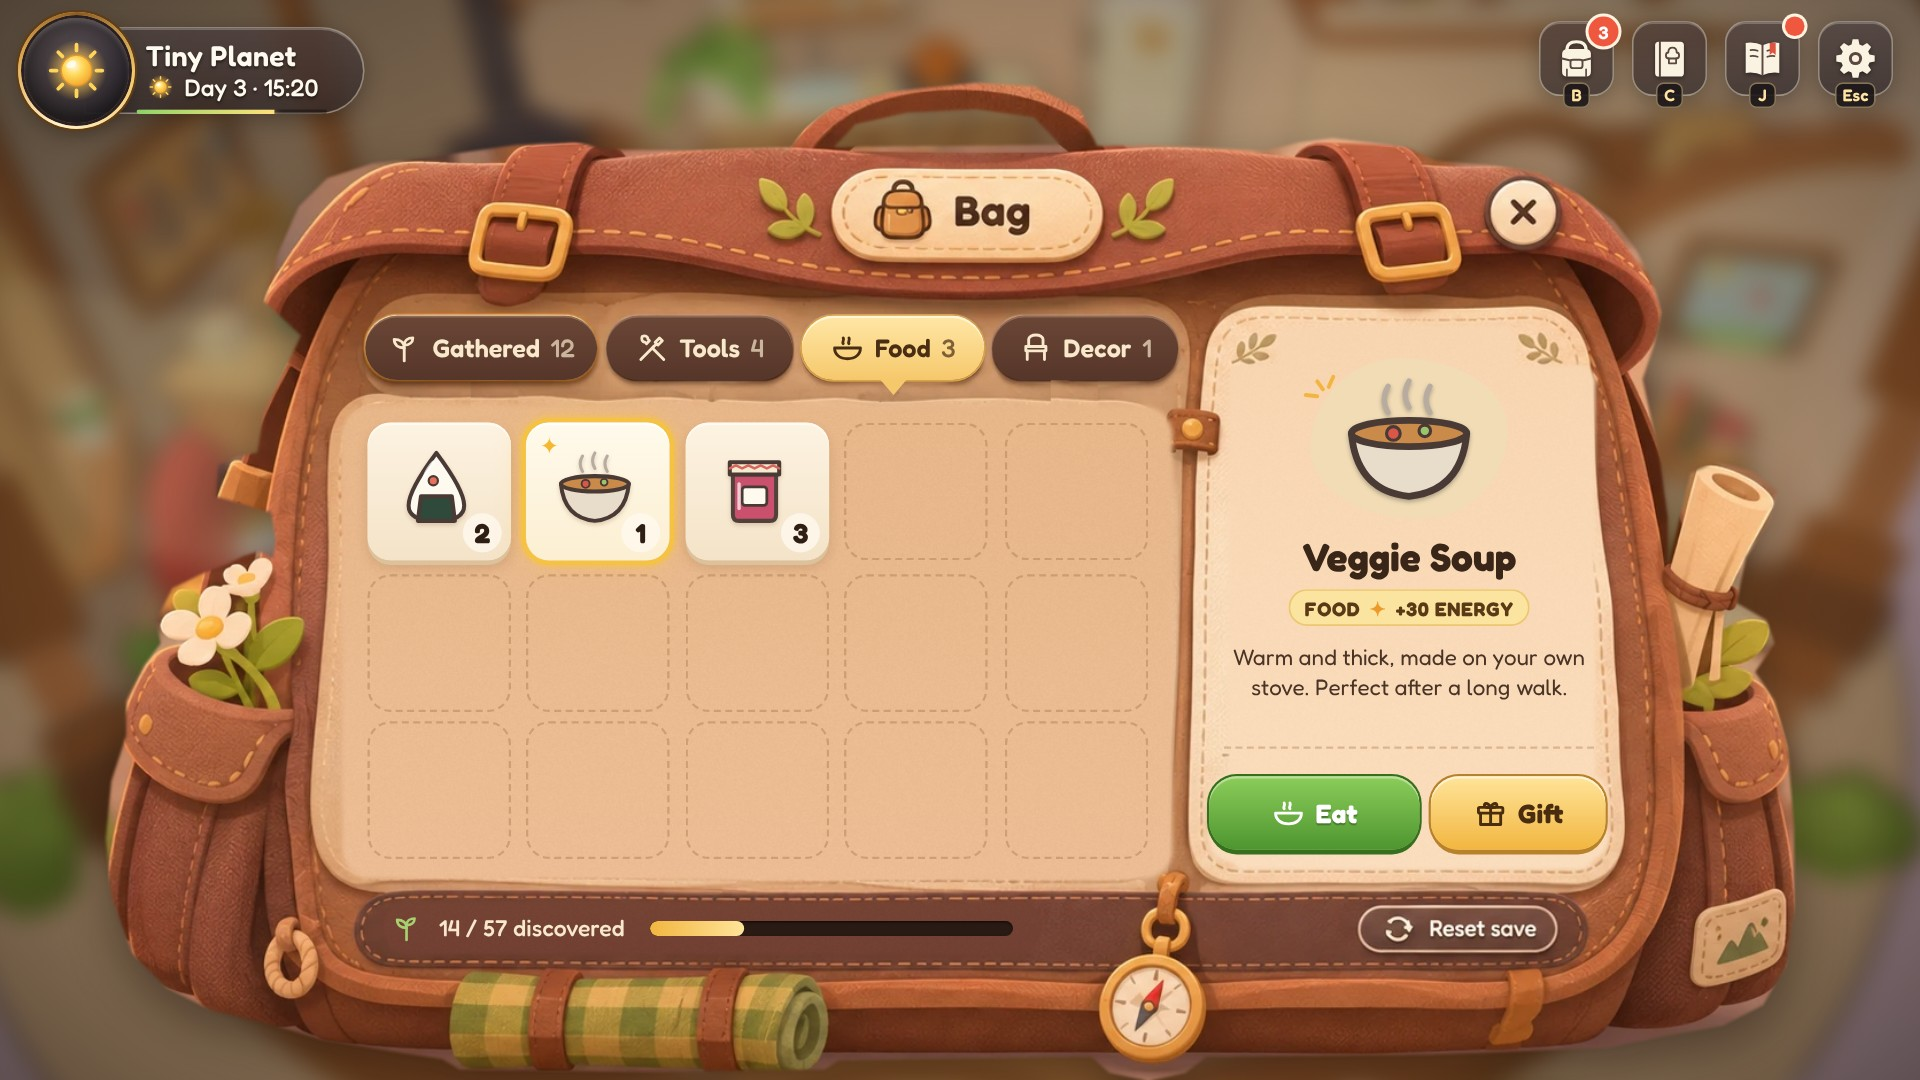
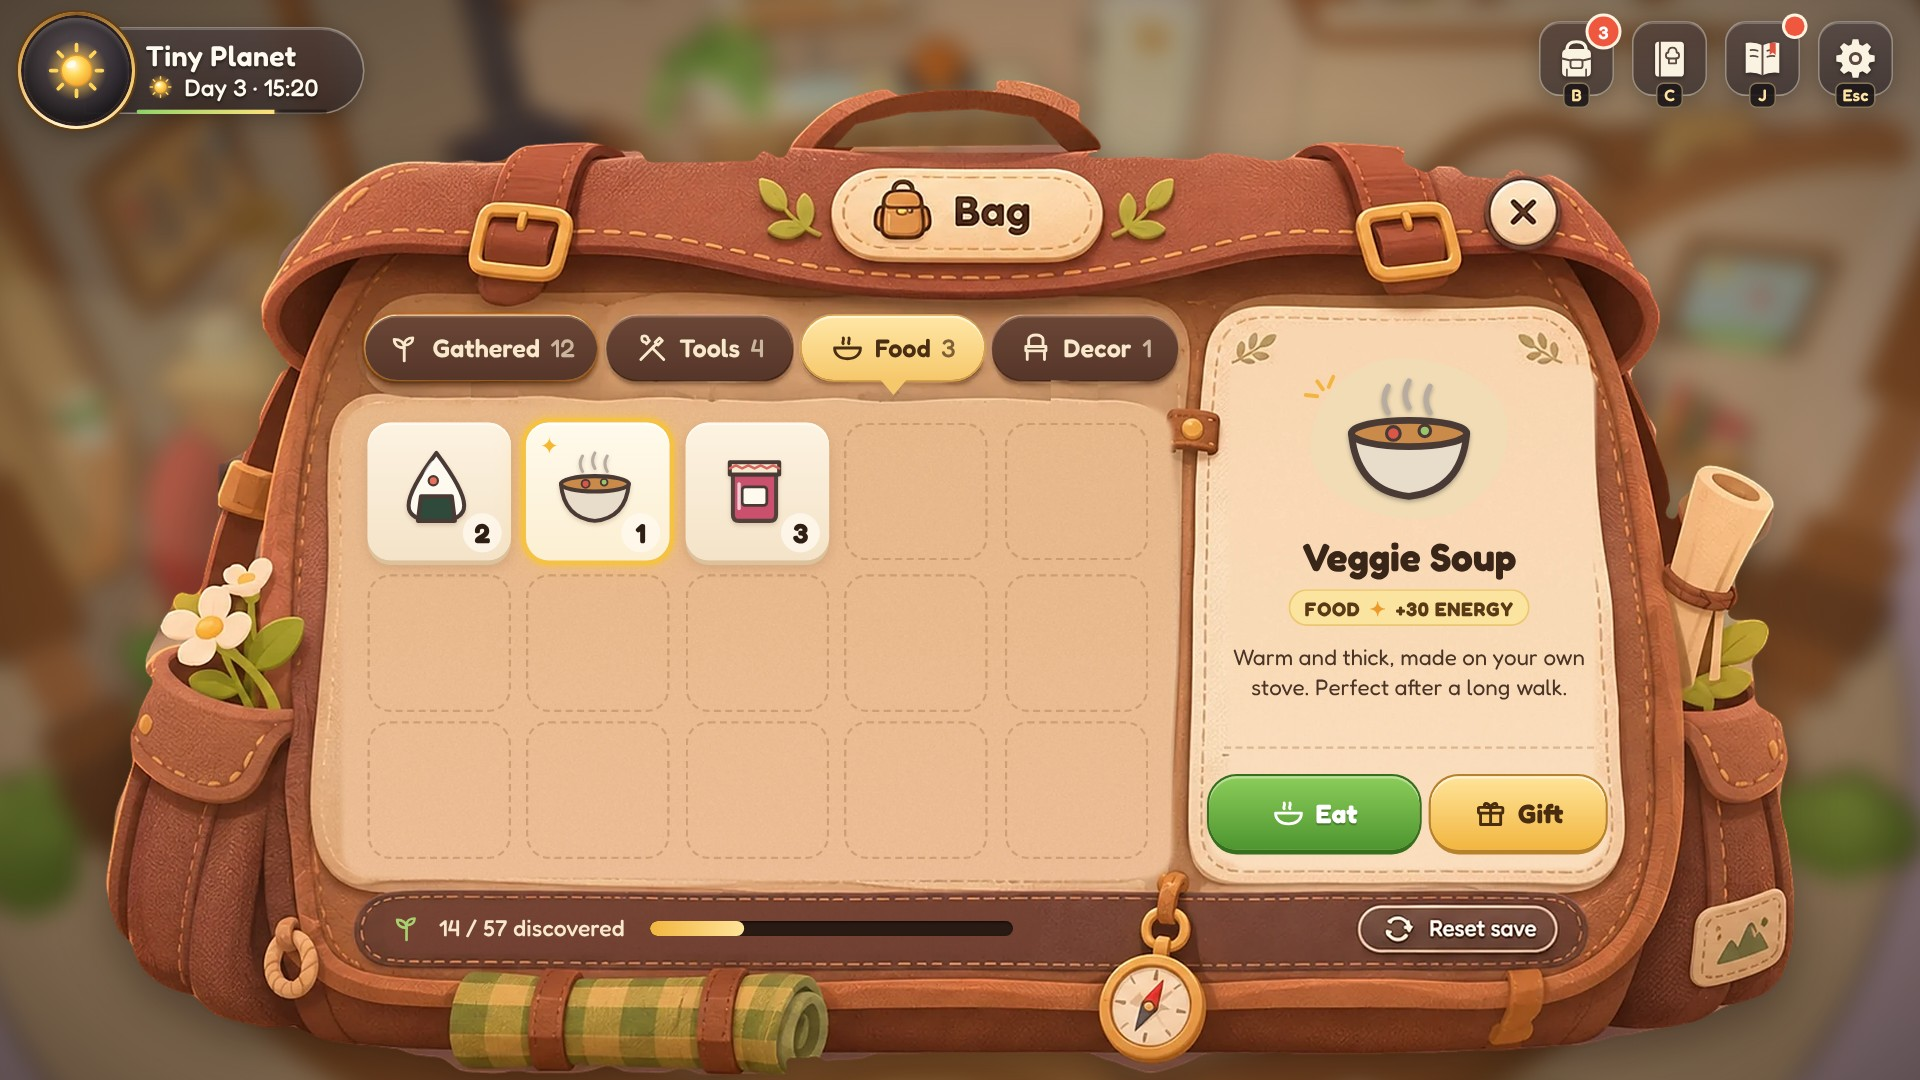
Bag mock: refined cut-out, 2x art, WebP (135 KB / 454 KB), hotspots, discoveries panel
Claude-Session: https://claude.ai/code/session_01CNaBwLKpSJahPyEzLh7zFH

diff --git a/ui-mocks/a/bag3.html b/ui-mocks/a/bag3.html
@@ -39,12 +39,30 @@ html,body{margin:0;width:1280px;height:720px;overflow:hidden;background:#3a2a20}
 .bt svg{width:30px;height:30px}
 .bt.g{flex:1.2;color:#fff;text-shadow:0 1px 1px rgba(0,0,0,.3);background:linear-gradient(180deg,#8ccd5a,#4e9530);box-shadow:0 0 0 2px #36701e,0 4px 0 #36701e,inset 0 2px 0 rgba(255,255,255,.4)}
 .bt.y{color:#4a2c0e;background:linear-gradient(180deg,#ffe49a,#f2b640);box-shadow:0 0 0 2px #b8822c,0 4px 0 #b8822c,inset 0 2px 0 rgba(255,255,255,.6)}
-.foot{position:absolute;left:340px;top:786px;height:44px;display:flex;align-items:center;gap:14px;font-size:20px;font-weight:500;color:#f8e8cc}
+.foot{position:absolute;left:326px;top:784px;height:48px;padding:0 16px 0 14px;border:0;border-radius:24px;background:none;font-family:inherit;cursor:pointer;display:flex;align-items:center;gap:14px;font-size:20px;font-weight:500;color:#f8e8cc;transition:background .15s,box-shadow .15s}
+.foot .more{font-size:16px;font-weight:600;color:#f6c86c;opacity:0;margin-left:6px;transition:opacity .15s}
+.foot:hover,.foot.on{background:rgba(255,220,150,.10);box-shadow:inset 0 0 0 2px rgba(246,200,108,.75),0 0 16px rgba(246,200,108,.35)}
+.foot:hover .more,.foot.on .more{opacity:1}
+.hot{position:absolute;border:0;background:none;cursor:pointer;border-radius:36px}
+.hot:hover{background:rgba(255,240,200,.12)}
+body.debug .hot,body.debug .foot{outline:3px dashed #39f;outline-offset:2px;background:rgba(51,153,255,.15)}
+.disc{position:absolute;left:300px;bottom:180px;width:440px;padding:20px 22px 18px;border-radius:22px;color:#3a2618;
+  background:linear-gradient(180deg,#fffaf0,#f4e6c8);box-shadow:0 0 0 2.5px #c49a62,0 14px 30px rgba(40,20,8,.45)}
+.disc::before{content:'';position:absolute;inset:8px;border-radius:15px;border:2px dashed rgba(170,125,80,.4);pointer-events:none}
+.disc::after{content:'';position:absolute;left:150px;bottom:-14px;border:14px solid transparent;border-bottom:0;border-top:15px solid #f4e6c8;filter:drop-shadow(0 2.5px 0 #c49a62)}
+.dh{display:flex;align-items:center;gap:10px;font-size:26px;margin-bottom:10px}.dh svg{width:30px;height:30px;color:#6a9a3a}.dh span{margin-left:auto;font-size:22px;font-weight:700;color:#b4712e}
+.dr{display:flex;align-items:center;gap:12px;font-size:19px;font-weight:600;padding:6px 0}
+.di{width:34px;height:34px;display:grid;place-items:center;color:#8a5a30}.di svg{width:28px;height:28px}.di .it{width:34px;height:34px}
+.dn{width:96px}.dm{flex:1;height:12px;border-radius:6px;background:#e6d2ac;box-shadow:inset 0 1px 2px rgba(90,50,20,.25);overflow:hidden}
+.dm i{display:block;height:100%;border-radius:6px;background:linear-gradient(90deg,#f2b640,#ffe49a)}.dc{width:56px;text-align:right;color:#7a5a3a}
+.dnext{display:flex;align-items:center;gap:10px;margin-top:10px;padding:10px 12px;border-radius:14px;background:#f1e0bd;font-size:16px;line-height:1.3}.dnext .it{width:40px;height:40px;flex:none;filter:brightness(.15) opacity(.55)}
+.dsoon{margin-top:10px;text-align:center;font-size:14px;color:#9a7a5a}
 .foot svg{width:28px;height:28px;color:#a8d070}
 .foot .m{width:316px;height:13px;border-radius:7px;background:#2a1a14;box-shadow:inset 0 1px 2px rgba(0,0,0,.6);overflow:hidden;margin-left:8px}
 .foot .m i{display:block;width:26%;height:100%;border-radius:7px;background:linear-gradient(90deg,#f2b640,#ffe49a)}
 </style></head>
-<body class="ui"><img id="bg" src="../bg-in.jpg"><div class="veil"></div><div id="root"></div>
+<body class="ui">
+<script>if (new URLSearchParams(location.search).get('debug')) document.body.classList.add('debug')</script><img id="bg" src="../bg-in.jpg"><div class="veil"></div><div id="root"></div>
 <script>
 const it = (id, w) => `<span class="it">${IC[id + (w ? '' : '_nw')]}</span>`
 const gl = (id) => `<span class="gl">${GL[id]}</span>`
@@ -56,7 +74,11 @@ const I = {
   hammer: `<svg viewBox="0 0 24 24" fill="none" stroke="currentColor" stroke-width="2.2" stroke-linecap="round" stroke-linejoin="round"><path d="M14 6l4 4"/><path d="M11 9l3-3 2-1 3 3-1 2-3 3z"/><path d="M12.5 10.5L4 19l1.5 1.5 8.5-8.5"/></svg>`,
   gift: `<svg viewBox="0 0 24 24" fill="none" stroke="currentColor" stroke-width="2" stroke-linecap="round" stroke-linejoin="round"><rect x="3.5" y="8" width="17" height="4" rx="1"/><path d="M5 12v8h14v-8M12 8v12"/><path d="M12 8C10 4 6.5 5 8 7.5c.6 1 4 .5 4 .5zM12 8c2-4 5.5-3 4-.5-.6 1-4 .5-4 .5z"/></svg>`,
 }
-const FOOD = new URLSearchParams(location.search).get('tab') === 'food'
+const Q = new URLSearchParams(location.search), FOOD = Q.get('tab') === 'food'
+const DISC = `<div class="disc"><div class="dh">${I.sprout}<b>Discoveries</b><span>14 / 57</span></div>
+  ${[['sprout', 'Gathered', 10, 24], ['fish', 'Fish', 1, 12], ['bowl', 'Food', 3, 10], ['chair', 'Decor', 0, 11]].map(([ic, n, a, b]) => `<div class="dr"><span class="di">${ic === 'fish' ? `<span class="it">${IC.fish_nw}</span>` : I[ic]}</span><span class="dn">${n}</span><span class="dm"><i style="width:${a / b * 100}%"></i></span><span class="dc">${a}/${b}</span></div>`).join('')}
+  <div class="dnext"><span class="it">${IC.glowmoss_nw}</span><span><b>Next to find:</b> something that glows in the forest at night…</span></div>
+  <div class="dsoon">The full discovery journal is coming soon</div></div>`
 const tabs = [['Gathered', 12, 'sprout', 318, 202, !FOOD], ['Tools', 4, 'tools', 528, 162], ['Food', 3, 'bowl', 698, 159, FOOD], ['Decor', 1, 'chair', 864, 162]]
 const COLS = [320, 458, 597, 735, 875], ROWS = [368, 500, 628]
 const items = FOOD ? [['onigiri', 2], ['soup', 1, 1], ['jam', 3], [null], [null], [null], [null], [null], [null], [null], [null], [null], [null], [null], [null]] : [['mushroom', 3], ['flower', 5, 1], ['berries', 12], ['wood', 24], ['stone', 4], ['shell', 2], ['herbs', 6], ['acorn', 3], ['fish', 1], ['crystal', 2], ['moss', 7], ['pinecone', 4], [null], [null], [null]]
@@ -66,7 +88,7 @@ document.getElementById('root').innerHTML = `
 <div class="abs" style="right:18px;top:14px;display:flex;gap:12px">
   <div class="glass sqbtn">${gl('bag')}<span class="dot n">3</span><span class="kc">B</span></div><div class="glass sqbtn">${gl('recipes')}<span class="kc">C</span></div>
   <div class="glass sqbtn">${gl('journal')}<span class="dot"></span><span class="kc">J</span></div><div class="glass sqbtn">${gl('gear')}<span class="kc">Esc</span></div></div>
-<div class="bag"><img src="ref/bag-frame.png">
+<div class="bag"><img src="ref/bag-frame.webp" srcset="ref/bag-frame.webp 1x, ref/bag-frame@2x.webp 2x" alt="">
   ${tabs.map(([n, c, ic, x, w, on]) => `<div class="tb${on ? ' on' : ''}" style="left:${x}px;width:${w}px">${I[ic]}${n} <i>${c}</i></div>`).join('')}
   ${items.map(([id, n, s], k) => { const x = COLS[k % 5], y = ROWS[(k / 5) | 0]
     return id ? `<div class="t${s ? ' sel' : ''}" style="left:${x}px;top:${y}px">${it(id)}<span class="n">${n}</span>${s ? '<span class="sp">✦</span>' : ''}</div>` : `<div class="t e" style="left:${x}px;top:${y}px"></div>` }).join('')}
@@ -76,6 +98,10 @@ document.getElementById('root').innerHTML = `
     <p>${FOOD ? 'Warm and thick, made on your own stove. Perfect after a long walk.' : 'A little pink bloom from the meadow. Grandma says they brighten any windowsill.'}</p>
     <div class="ln" style="margin-bottom:96px"></div></div>
   <div class="acts"><span class="bt g">${FOOD ? I.bowl + 'Eat' : I.hammer + 'Craft with'}</span><span class="bt y">${I.gift}Gift</span></div>
-  <div class="foot">${I.sprout}14 / 57 discovered<span class="m"><i></i></span></div>
+  <button class="foot${Q.get('disc') ? ' on' : ''}" aria-label="Discoveries, 14 of 57 found">${I.sprout}14 / 57 discovered<span class="m"><i></i></span><span class="more">View ›</span></button>
+  <button class="hot" style="left:726px;top:150px;width:232px;height:72px" aria-label="Bag" data-act="none"></button>
+  <button class="hot" style="left:1294px;top:153px;width:64px;height:64px;border-radius:50%" aria-label="Close bag" data-act="close"></button>
+  <button class="hot" style="left:1184px;top:788px;width:172px;height:42px;border-radius:21px" aria-label="Reset save" data-act="reset"></button>
+  ${Q.get('disc') ? DISC : ''}
 </div>`
 </script></body></html>

diff --git a/ui-mocks/a/ref/refine.py b/ui-mocks/a/ref/refine.py
@@ -1,0 +1,80 @@
+# Refine the hand-traced cut-out. The reference background is blurred while the bag is sharp, so in a band
+# around the traced outline we estimate the background (normalised blur of pixels known to be outside) and keep
+# only pixels that differ from it. Usage: refine.py ref.png cut.png out.png
+import sys, numpy as np
+from PIL import Image, ImageFilter, ImageDraw
+ref = Image.open(sys.argv[1]).convert('RGB'); cut = Image.open(sys.argv[2])
+A0 = cut.getchannel('A')
+def grow(m, n, f):  # n passes of a 5px max/min filter
+    for _ in range(n): m = m.filter(f(5))
+    return m
+hard = A0.point(lambda v: 255 if v > 127 else 0)
+outer = grow(hard, 2, ImageFilter.MaxFilter)            # traced edge + ~4px (the trace never misses much bag)
+inner = grow(hard, 6, ImageFilter.MinFilter)            # traced edge - ~12px
+bgm = grow(hard.point(lambda v: 255 - v), 2, ImageFilter.MinFilter)  # surely-outside, 4px clear of the line
+img = np.asarray(ref, np.float32); bm = np.asarray(bgm, np.float32) / 255
+def blur(a, r): return np.asarray(Image.fromarray(np.clip(a, 0, 255).astype(np.uint8)).filter(ImageFilter.GaussianBlur(r)), np.float32)
+# normalised convolution at two scales, so the estimate follows background shapes but still reaches the band
+B = np.zeros_like(img)
+for r in (8, 20):
+    w = blur(bm * 255, r)[..., None] / 255 + 1e-4
+    est = np.stack([blur(img[..., c] * bm, r) for c in range(3)], -1) / w
+    B = np.where((B.sum(-1, keepdims=True) == 0) & (w > .08), est, B)
+d = np.sqrt(((img - B) ** 2).sum(-1))
+WIN = int(sys.argv[8]) if len(sys.argv) > 8 else 15
+# dark leather the colour test can't tell from the background: always bag
+KEEP = [[(224,378),(232,380),(262,380),(262,500),(178,500),(190,452),(190,405),(205,398),(215,392)],   # side strap + tab
+        [(265,200),(240,240),(227,262),(229,285),(242,305),(252,318),(244,332),(300,332),(300,200)]]  # underside of the flap curl
+HOLE = [(726,128),(745,108),(790,98),(850,95),(900,102),(923,126)]  # inside the carry handle
+HF0, HF1 = (float(sys.argv[6]), float(sys.argv[7])) if len(sys.argv) > 7 else (1.0, 2.6)
+t0, t1 = float(sys.argv[4]) if len(sys.argv) > 4 else 16, float(sys.argv[5]) if len(sys.argv) > 5 else 46
+a = np.clip((d - t0) / (t1 - t0), 0, 1); a = a * a * (3 - 2 * a)
+# sharpness test: the bag is in focus, the background is not. High-frequency energy, spread 4px so the smooth
+# middle of a petal next to its crisp outline still counts as bag.
+hf = np.abs(img - np.stack([blur(img[..., c], 1.5) for c in range(3)], -1)).mean(-1)
+hfi = Image.fromarray(np.clip(hf * 20, 0, 255).astype(np.uint8)).filter(ImageFilter.GaussianBlur(1.5)).filter(ImageFilter.MaxFilter(9))
+h = np.clip((np.asarray(hfi, np.float32) / 20 - HF0) / (HF1 - HF0), 0, 1)
+a = a * h
+o = np.asarray(outer, np.float32) / 255; i_ = np.asarray(inner, np.float32) / 255
+alpha = np.where(i_ > .5, 1.0, np.where(o < .5, 0.0, a))
+al = Image.fromarray((alpha * 255).astype(np.uint8)).filter(ImageFilter.MedianFilter(5))
+# open (erode then dilate) to drop specks of background that slipped through
+al = grow(grow(al, 1, ImageFilter.MinFilter), 1, ImageFilter.MaxFilter)
+# fill pinholes inside the bag, then a soft 0.8px edge
+al = grow(grow(al, 1, ImageFilter.MaxFilter), 1, ImageFilter.MinFilter).filter(ImageFilter.GaussianBlur(.8))
+# crisp matte: keep what is at least half bag, trim strands thinner than ~6px, then a 0.7px anti-aliased edge
+hard = al.point(lambda v: 255 if v > 127 else 0)
+hard = hard.filter(ImageFilter.MinFilter(7)).filter(ImageFilter.MaxFilter(7))   # opening: drops hairs + specks
+hard = hard.filter(ImageFilter.MaxFilter(3)).filter(ImageFilter.MinFilter(3))   # closing: fills pinholes
+# never cut deeper than ~10px inside the hand trace (dark leather can match the background colour)
+core = grow(Image.fromarray((np.asarray(A0) > 127).astype(np.uint8) * 255), 5, ImageFilter.MinFilter)
+hard = Image.fromarray(np.maximum(np.asarray(hard), np.asarray(core)))
+# fill enclosed holes, then trace the outer boundary and low-pass it so the silhouette is a clean curve
+filled = hard.copy(); ImageDraw.floodfill(filled, (0, 0), 128)
+hard = filled.point(lambda v: 0 if v == 128 else 255)
+H_, W_ = hard.size[1], hard.size[0]; m = np.asarray(hard) > 0
+ys, xs = np.nonzero(m); start = (int(xs[np.argmin(ys * W_ + xs)]), int(ys.min()))
+N8 = [(1,0),(1,1),(0,1),(-1,1),(-1,0),(-1,-1),(0,-1),(1,-1)]
+def inside(x, y): return 0 <= x < W_ and 0 <= y < H_ and m[y, x]
+pts = [start]; cur = start; back = 4
+while True:  # Moore-neighbour boundary tracing
+    for k in range(8):
+        d = (back + 1 + k) % 8; nx, ny = cur[0] + N8[d][0], cur[1] + N8[d][1]
+        if inside(nx, ny): back = (d + 4) % 8; cur = (nx, ny); break
+    if cur == start or len(pts) > 200000: break
+    pts.append(cur)
+P = np.array(pts, np.float32); n = len(P); w = WIN
+ker = np.ones(w) / w
+sm = np.stack([np.convolve(np.r_[P[-w:, i], P[:, i], P[:w, i]], ker, 'same')[w:w + n] for i in (0, 1)], -1)
+K = 4; big = Image.new('L', (W_ * K, H_ * K), 0); dd = ImageDraw.Draw(big)
+dd.polygon([(float(x) * K + K / 2, float(y) * K + K / 2) for x, y in sm], fill=255)
+for poly in KEEP: dd.polygon([(x * K, y * K) for x, y in poly], fill=255)
+dd.polygon([(x * K, y * K) for x, y in HOLE], fill=0)
+A = np.asarray(big.resize((W_, H_), Image.LANCZOS), np.float32) / 255
+# colour decontamination: edge pixels take the colour of nearby solid bag pixels instead of the old background tint
+solid = (A > .97).astype(np.float32)
+w = blur(solid * 255, 3)[..., None] / 255 + 1e-4
+F = np.stack([blur(img[..., c] * solid, 3) for c in range(3)], -1) / w
+k = np.clip((.97 - A) / .97, 0, 1)[..., None] * (w > .05)
+rgb = img * (1 - k) + F * k
+out = Image.fromarray(np.dstack([np.clip(rgb, 0, 255), A * 255]).astype(np.uint8), 'RGBA'); out.save(sys.argv[3])
